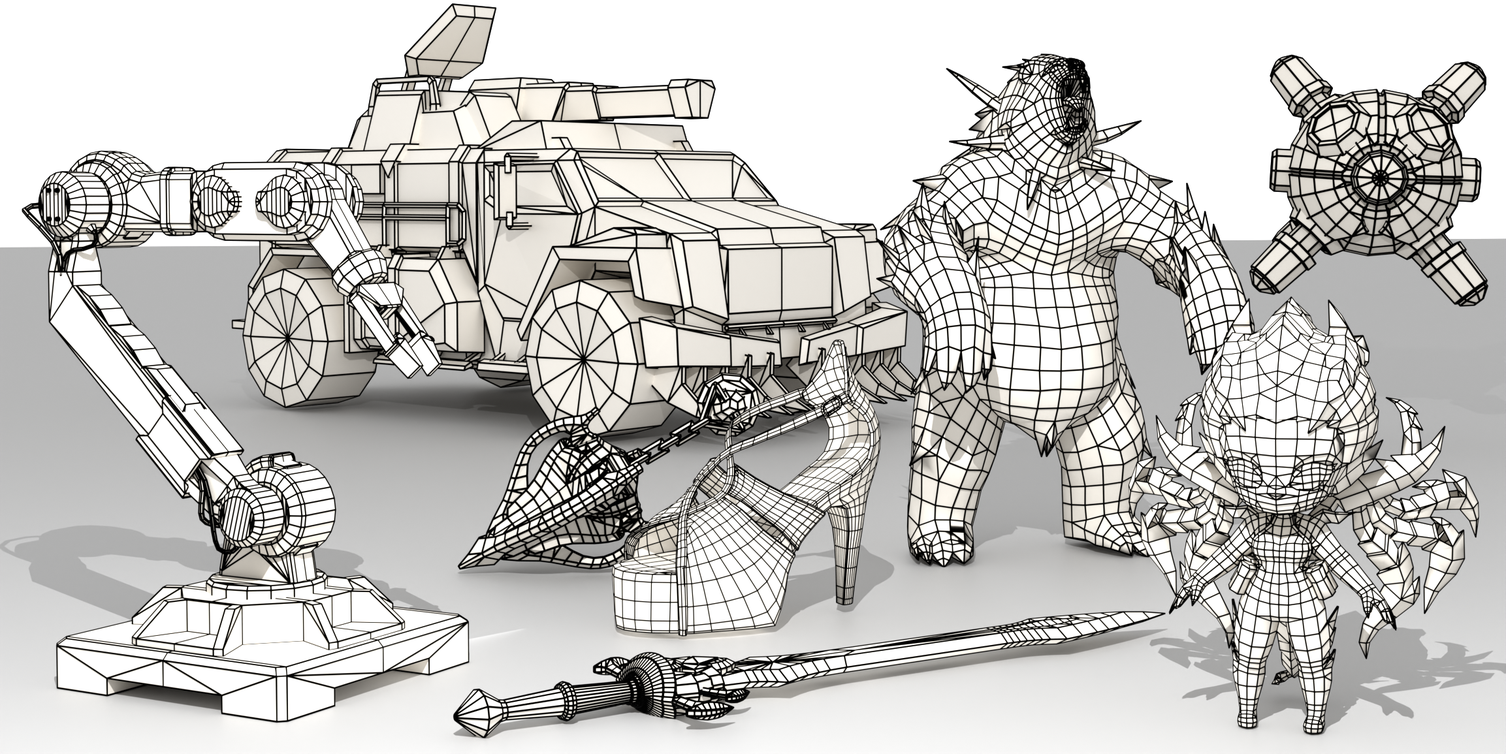
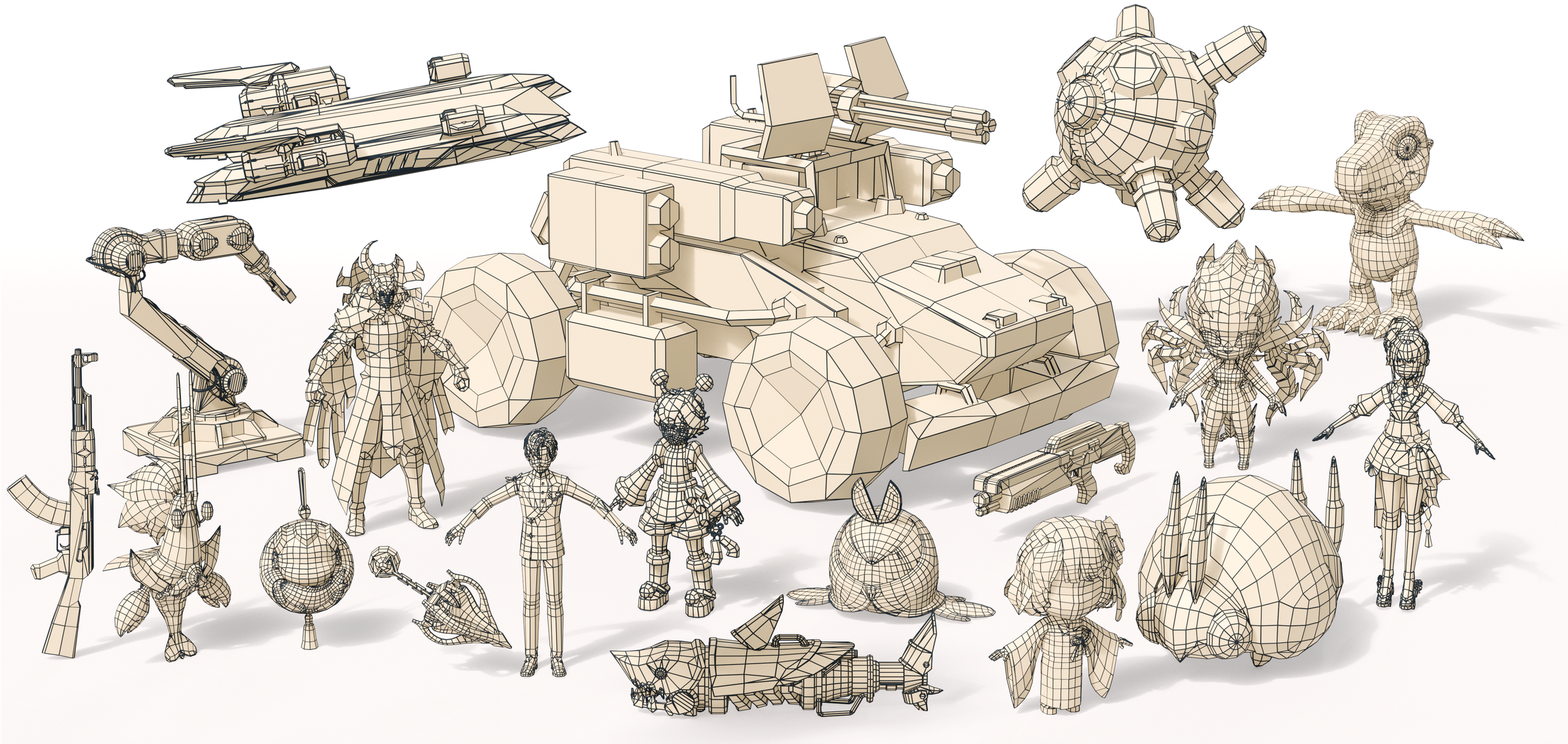
Update the paper teaser and pin the Tri-to-Quad release

diff --git a/README.md b/README.md
@@ -46,7 +46,7 @@ arXiv 2025
 </p>
 
 <p align="center">
-  <img width="90%" alt="teaser" src="./assets/teaser.png">
+  <img width="90%" alt="QuadLink results showing quad-dominant mesh topology" src="./assets/teaser.png">
 </p>
 
 ## TODO
@@ -56,4 +56,4 @@ arXiv 2025
 
 ### Tri-to-Quad Operator
 
-We provide a tool to convert artistic triangle meshes into production-ready quad-dominant meshes via **Geometry Prefiltering**, **Global Merging Selection** and **Deterministic Normal Consistency**. The technical details can be found in our paper and the installation guide can be found in [Tri-to-Quad Operator](https://github.com/Graphic-Kiliani/Tri2Quad-Geometry-Aware-Triangle-to-Quad-Mesh-Conversion-Operator/blob/main/README.md).
+We provide a tool to convert artistic triangle meshes into production-ready quad-dominant meshes via **Geometry Prefiltering**, **Global Merging Selection** and **Deterministic Normal Consistency**. The technical details can be found in our paper and the installation guide can be found in [Tri-to-Quad Operator](https://github.com/Graphic-Kiliani/Tri2Quad-Geometry-Aware-Triangle-to-Quad-Mesh-Conversion-Operator/tree/6d5441ae011c58d3f80d49ce93212489347f80ea).
